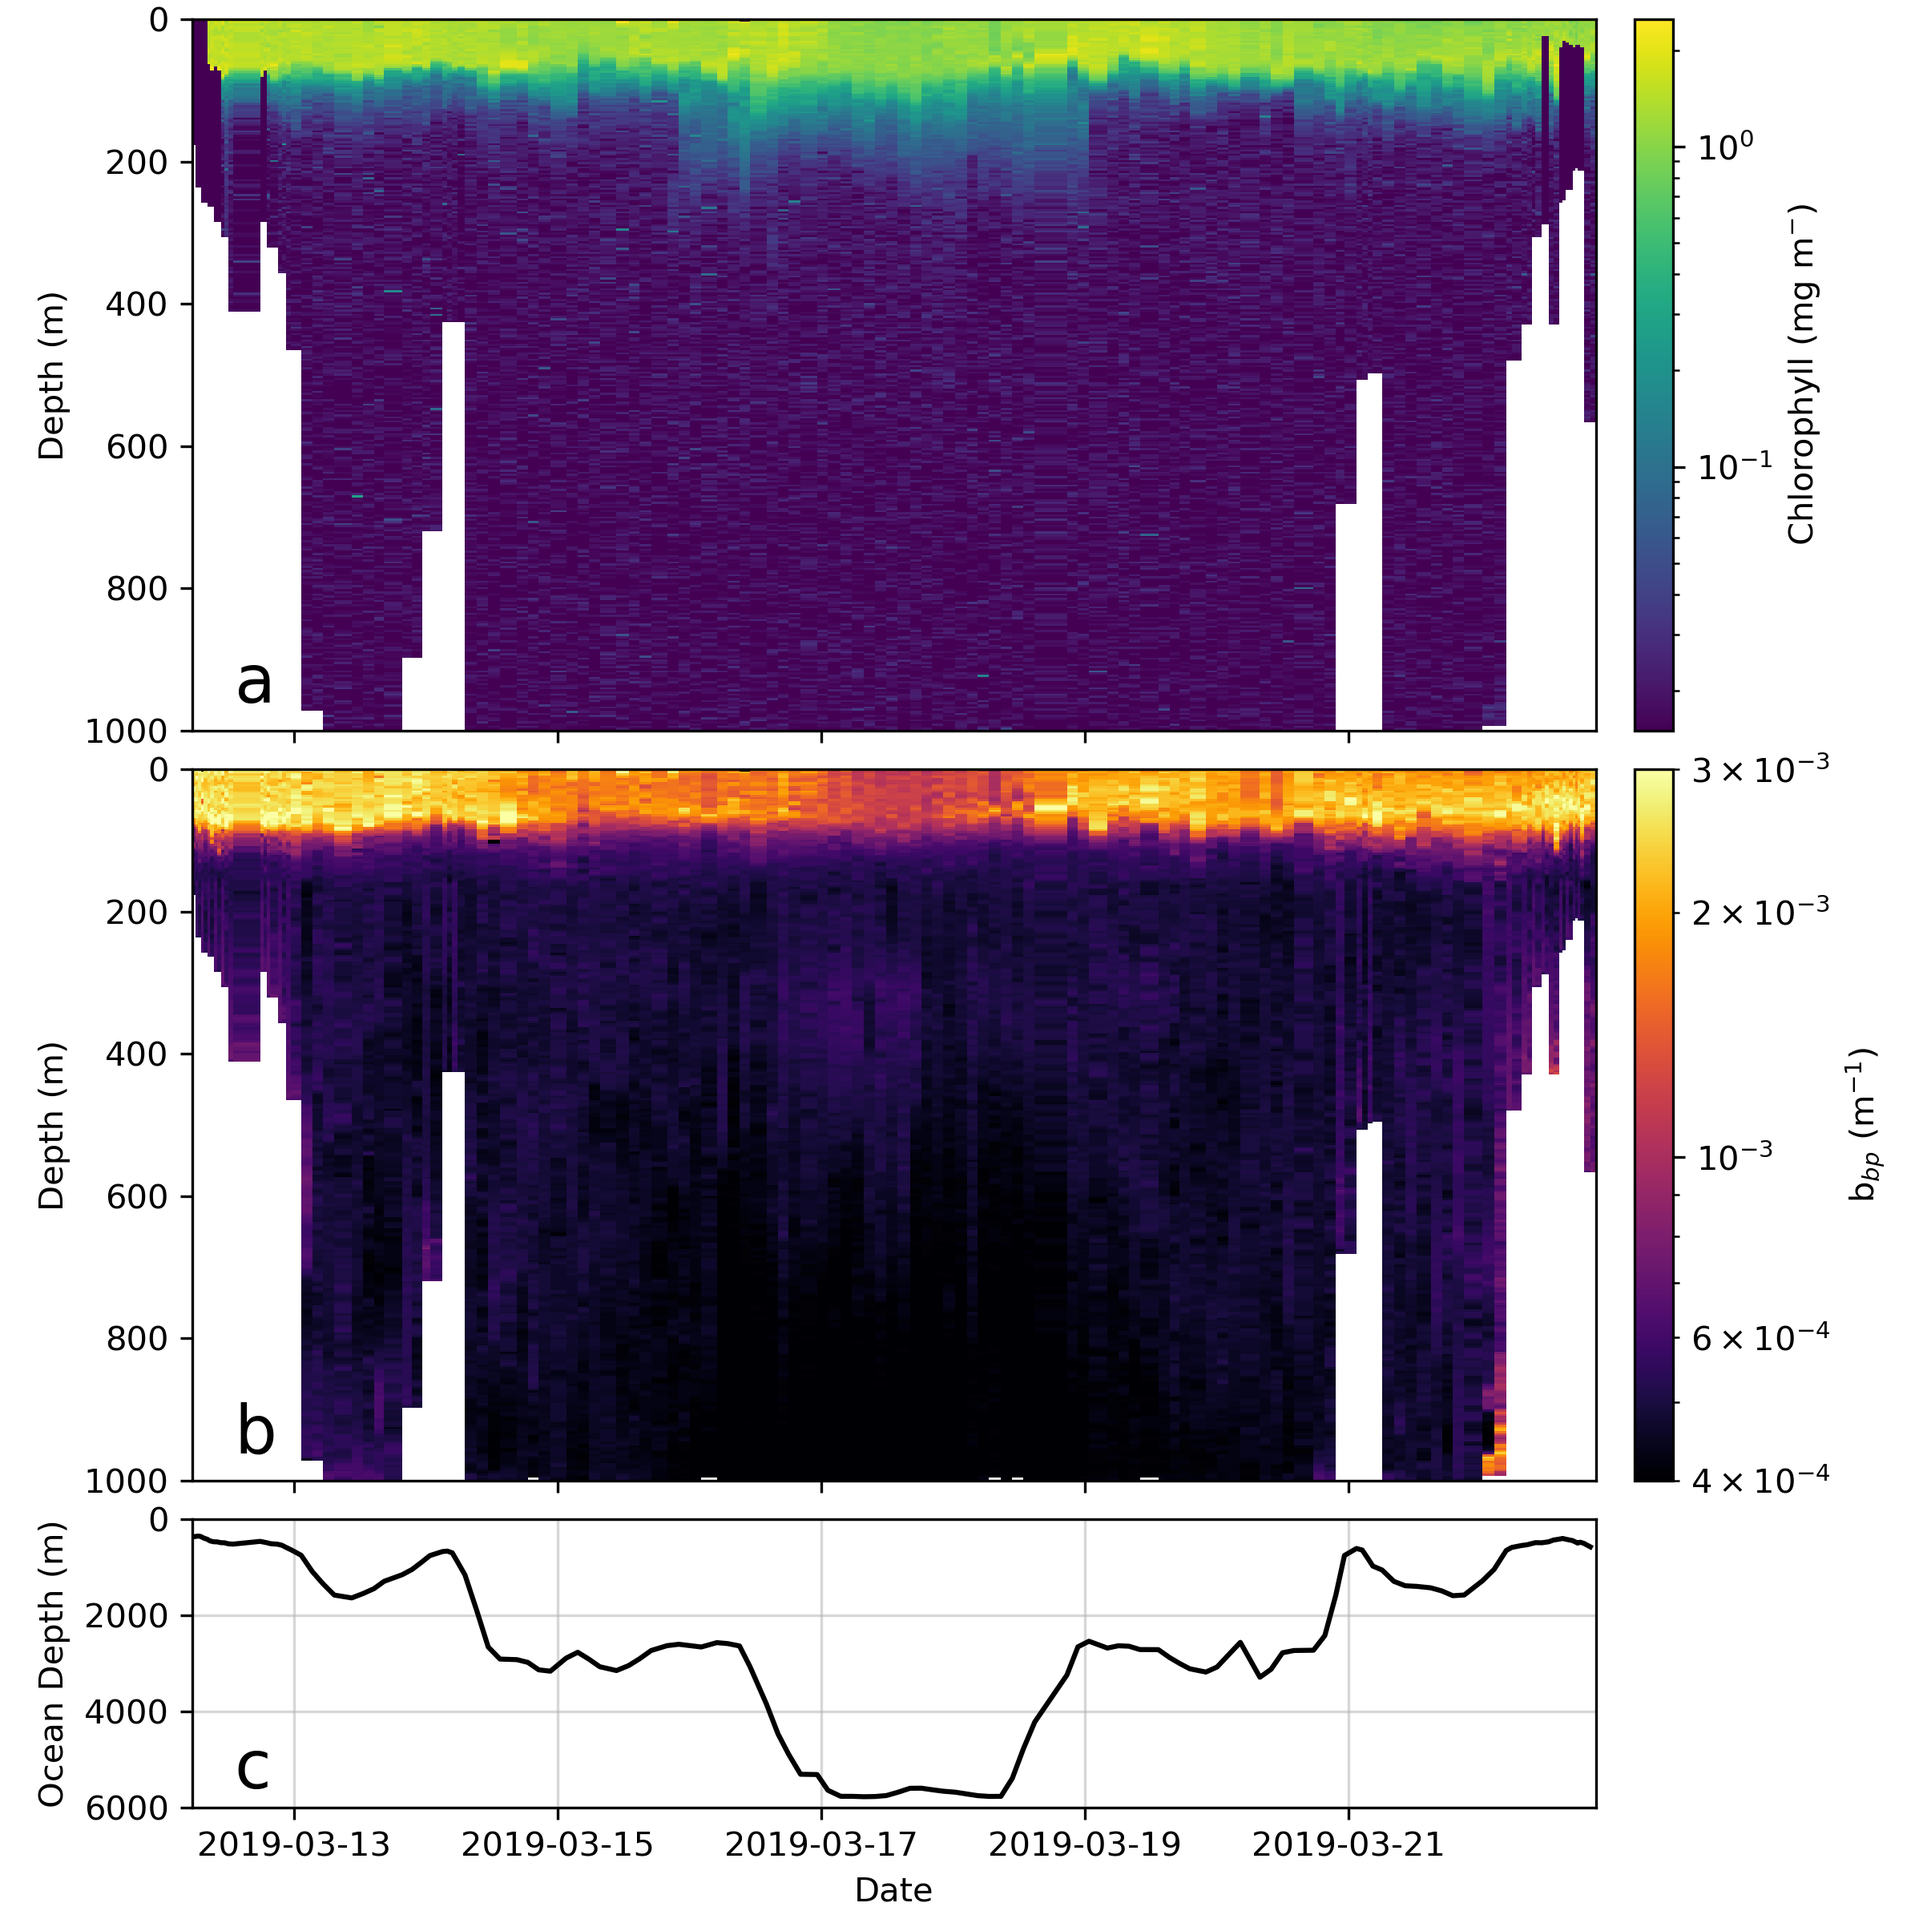
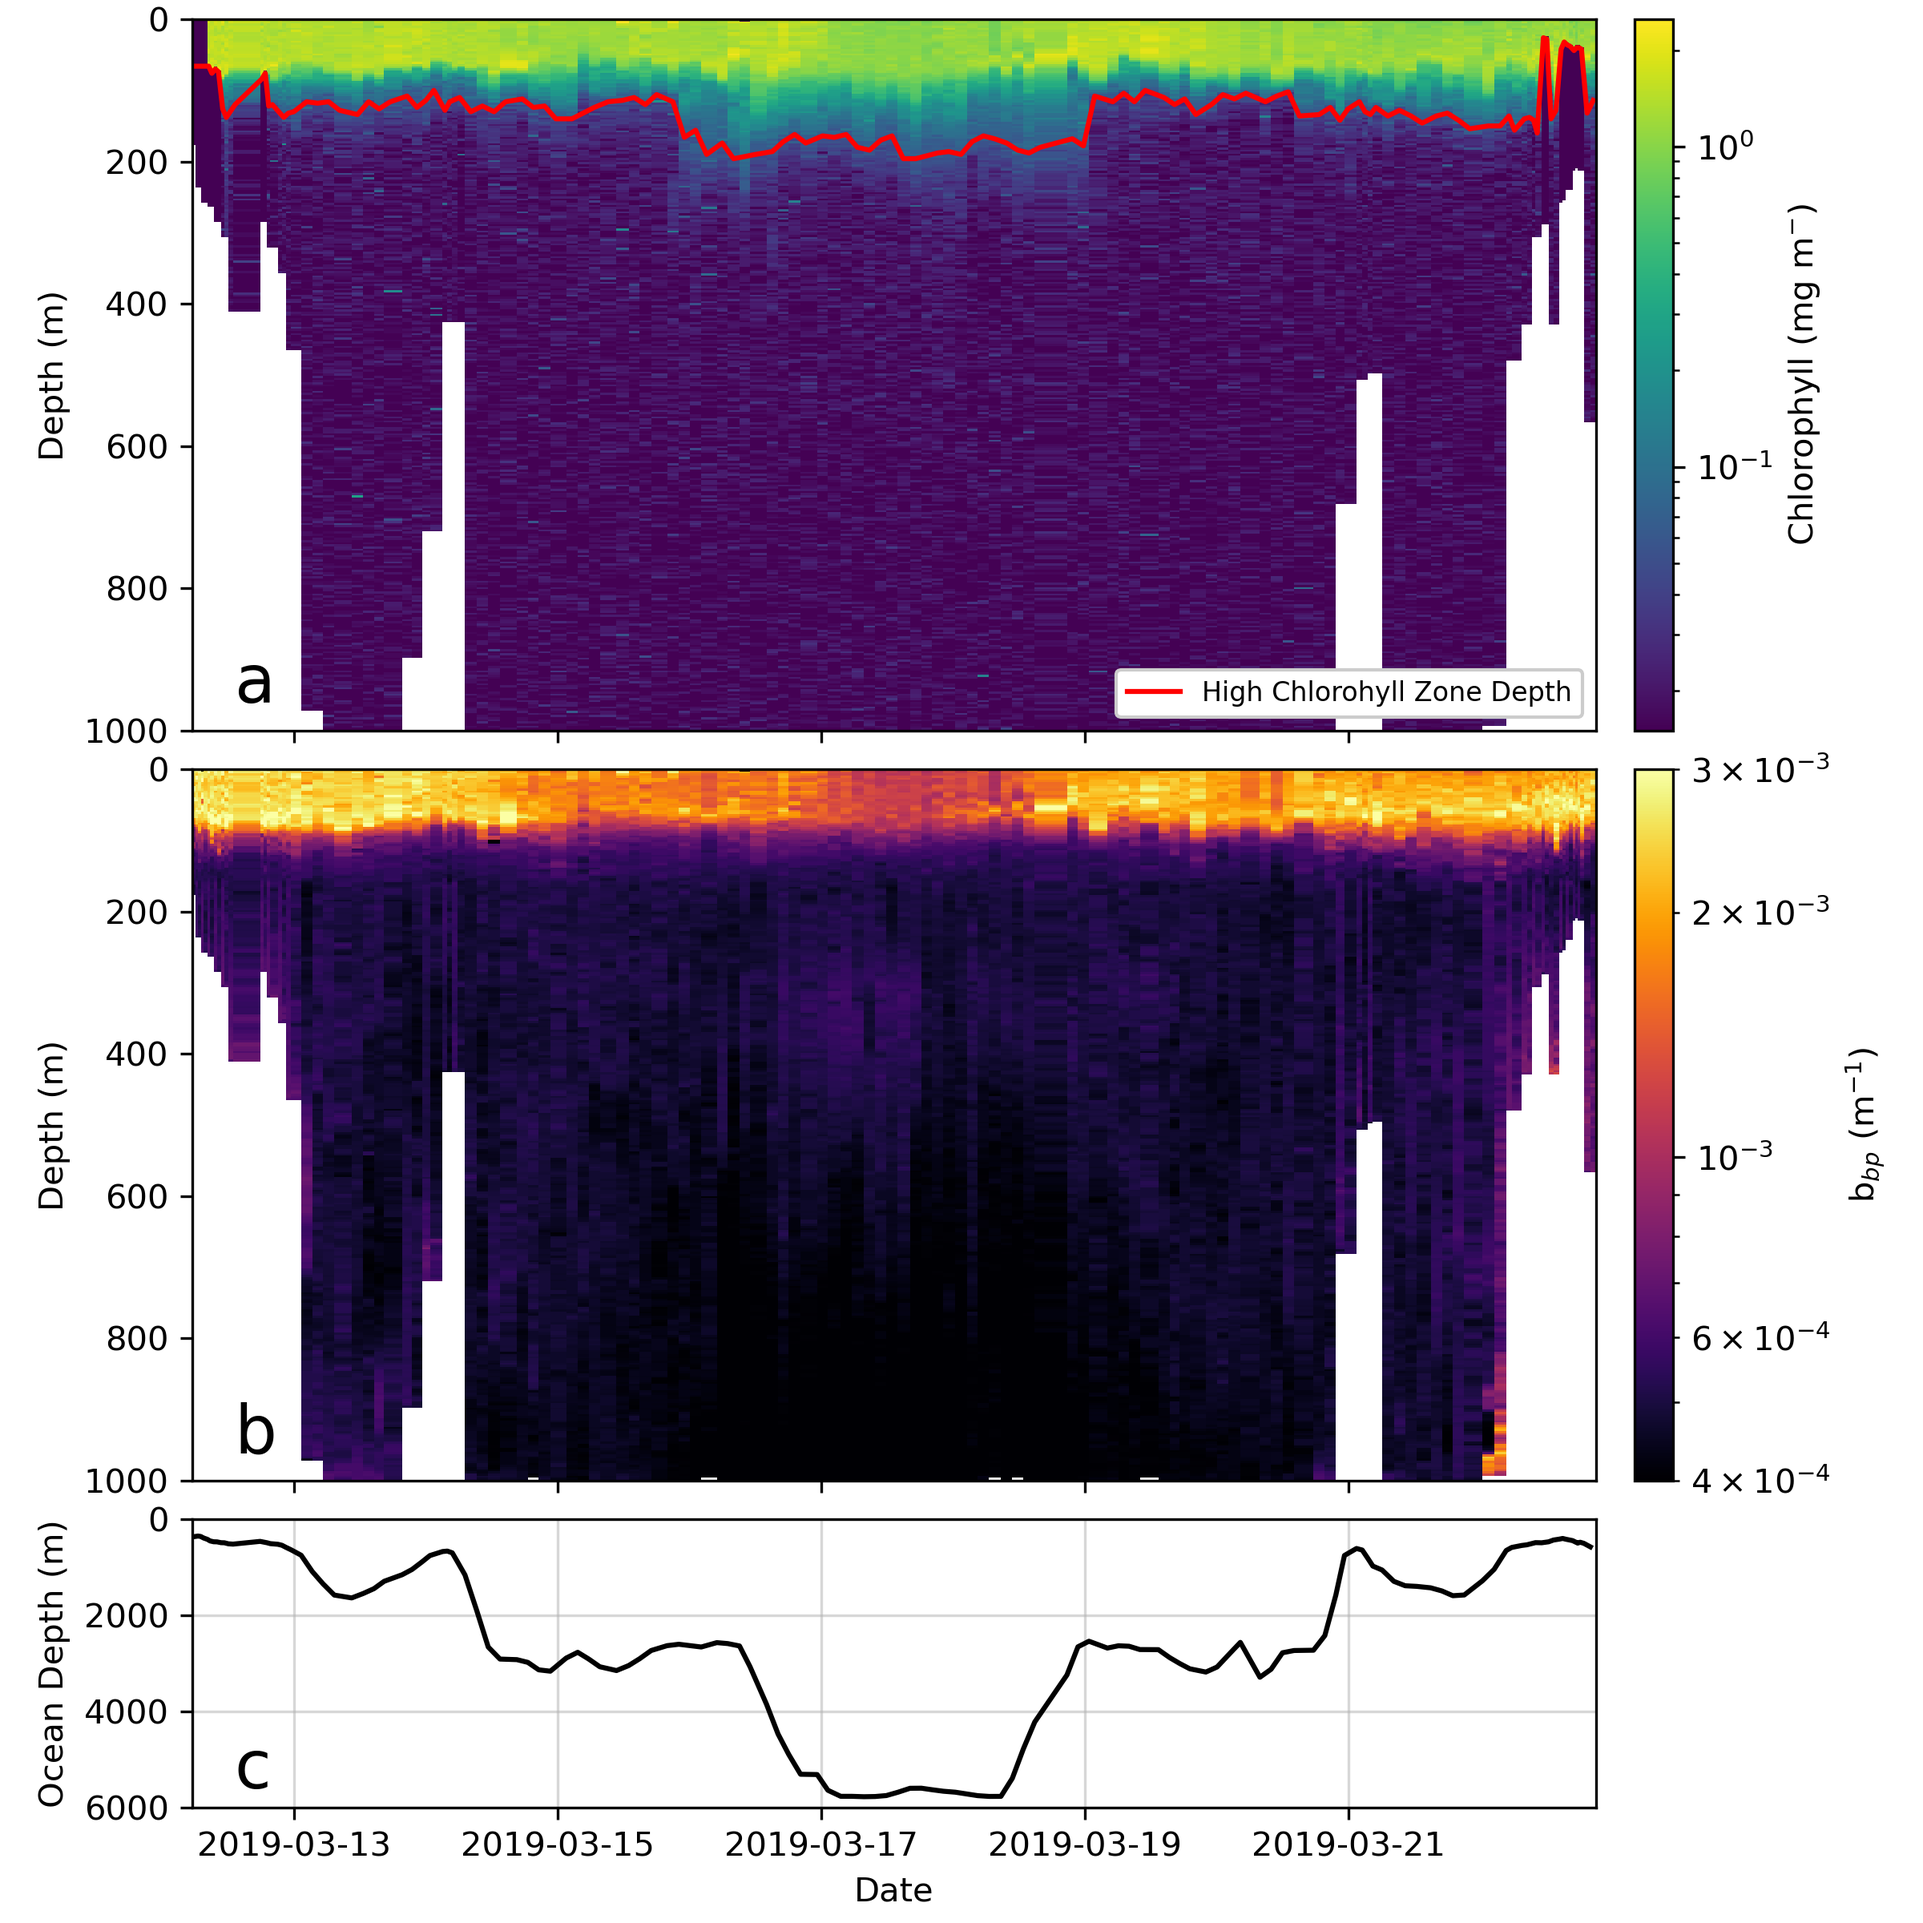
tweaks after chat with kate

diff --git a/Louis/code/FigureK.py b/Louis/code/FigureK.py
@@ -22,7 +22,7 @@ def map_plot(profiles:list[Profile], colour_parameter:str, ax, variable_limit=No
     
     if basemap != None:
         longitudes, latitudes = basemap(longitudes, latitudes)
-    pcm = ax.scatter(longitudes, latitudes, c=colors, s=15, cmap="turbo", norm=mpl.colors.Normalize(vmin=100, vmax=260))
+    pcm = ax.scatter(longitudes, latitudes, c=colors, s=15, cmap="viridis", norm=mpl.colors.Normalize(vmin=100, vmax=200))
     return pcm
     
 
@@ -30,11 +30,17 @@ def map_plot(profiles:list[Profile], colour_parameter:str, ax, variable_limit=No
 
 
 #fig, ax = plt.subplots(2, 1, figsize=(6,6), height_ratios=[1, 0.05])
-fig = plt.figure(figsize=(8,8))
-main_ax = fig.add_axes([0.1, 0.2, 0.7, 0.7])  # [left, bottom, width, height]
-bottom_ax = fig.add_axes([0.2, 0.1, 0.5, 0.02])  # [left, bottom, width, height]
-side_ax = fig.add_axes([0.82, 0.3, 0.02, 0.5])  # [left, bottom, width, height]
+fig = plt.figure(figsize=(14,8))
+main_ax = fig.add_axes([0.05, 0.2, 0.4, 0.7])  # [left, bottom, width, height]
+bottom_ax = fig.add_axes([0.125, 0.1, 0.25, 0.02])  # [left, bottom, width, height]
+side_ax = fig.add_axes([0.92, 0.3, 0.01, 0.5])  # [left, bottom, width, height]
 axes = [main_ax, bottom_ax, side_ax]
+
+# Add second main_ax and bottom_ax
+second_main_ax = fig.add_axes([0.5, 0.2, 0.4, 0.7])  # [left, bottom, width, height]
+second_bottom_ax = fig.add_axes([0.575, 0.1, 0.25, 0.02])  # [left, bottom, width, height]
+axes.append(second_main_ax)
+axes.append(second_bottom_ax)
 
 # Load data
 dataset = xr.open_dataset('Louis/data/gebco_2024_n-55.0_s-65.0_w-40.0_e-32.0.nc', engine="netcdf4")
@@ -52,10 +58,34 @@ colors = original_cmap(np.arange(original_cmap.N))
 modified_cmap = ListedColormap(colors, "modified_cmap")
 bmp = m.contourf(x, y, Z, cmap=modified_cmap)
 
+###
+
+# Add second map
+
+m2 = Basemap(llcrnrlon=-40,llcrnrlat=-62.0,urcrnrlon=-34,urcrnrlat=-59.0,
+            resolution='i',projection='merc',lon_0=-15.0,lat_0=55.0, ax=axes[3])
+
+
+original_cmap = mpl.colormaps["gist_gray"]
+colors = original_cmap(np.arange(original_cmap.N))
+#colors[:, -1] = 0.8  # Set alpha
+modified_cmap = ListedColormap(colors, "modified_cmap")
+bmp = m2.contourf(x, y, Z, cmap=modified_cmap)
+
+###
+
+
+
+
 
 m.fillcontinents(color='grey')
 m.drawparallels(np.arange(-65,-50,1), labels=[1,0,0,0])
 m.drawmeridians(np.arange(-40, -30, 1), labels=[0,0,0,1])
+
+
+m2.fillcontinents(color='grey')
+m2.drawparallels(np.arange(-65,-50,1), labels=[1,0,0,0])
+m2.drawmeridians(np.arange(-40, -30, 1), labels=[0,0,0,1])
 
 
 
@@ -64,7 +94,7 @@ axes[0].set_xlabel("Longitude", labelpad=15)
 axes[0].set_ylabel("Latitude")
 
 plt.colorbar(pcm, cax=axes[1], orientation="horizontal")
-axes[1].set_xlabel(r"Active Zone Depth (m)")
+axes[1].set_xlabel(r"High Chlorophyll Zone Depth (m)")
 
 
 
@@ -74,6 +104,36 @@ plt.colorbar(bmp, cax=axes[2], orientation="vertical")
 axes[2].set_ylabel(r"Depth (m)")
 xticks = axes[2].get_xticks()
 axes[2].set_xticklabels([int(abs(tick)) for tick in xticks])
+
+
+def map_plot2(profiles:list[Profile], colour_parameter:str, ax, variable_limit=None, basemap=None) -> None:
+
+        
+    longitudes = np.asarray([p.start_location[0] for p in profiles if p.active_zone>100])
+    latitudes = np.asarray([p.start_location[1] for p in profiles if p.active_zone>100])
+    colors = np.asarray([(p.active_zone - p.photic_depth) for p in profiles if p.active_zone>100])
+    print(colors)
+
+    
+    if basemap != None:
+        longitudes, latitudes = basemap(longitudes, latitudes)
+    pcm = ax.scatter(longitudes, latitudes, c=colors, s=15, cmap="magma", norm=mpl.colors.Normalize(vmin=30, vmax=130))
+    return pcm
+    
+
+pcm = map_plot2(profiles, "bbp_minimum_despiked", axes[3], variable_limit=None, basemap=m)
+axes[3].set_xlabel("Longitude", labelpad=15)
+axes[3].set_ylabel("Latitude")
+
+plt.colorbar(pcm, cax=axes[4], orientation="horizontal")
+axes[4].set_xlabel(r"Extent of High Chlorophyll Zone beyond Photic Zone (m)")
+
+
+
+
+
+
+
 
 
 

diff --git a/Louis/code/FigureI.py b/Louis/code/FigureI.py
@@ -34,6 +34,7 @@ profiles = profiles[489:631]
 print(profiles[0].index, profiles[-1].index)
 
 
+az_depths = [-p.active_zone for p in profiles]
 
 # AXIS 0
 
@@ -58,6 +59,7 @@ cbar_ax2.set_ylabel(r"b$_{bp}$ (m$^{-1}$)")
 
 
 # AXIS 2
+
 bath = [p.bathymetry for p in profiles]
 time = [p.start_time for p in profiles]
 valid_nexts = np.asarray([p.valid_next for p in profiles])
@@ -66,12 +68,21 @@ masks.pop(-1)
 for m in masks:
     times = []
     baths = []
+    az = []
     while len(times) < len(m):
         times.append(time.pop(0))
         baths.append(bath.pop(0))
     times.append(time.pop(0))
     baths.append(bath.pop(0))
     ax2.plot(times, baths, color="black")
+
+
+az_depths = pd.Series([-p.active_zone for p in profiles]).interpolate(method="linear", limit_direction="both")
+ts = [p.start_time + 0.5*(p.end_time-p.start_time) for p in profiles]
+ax.plot(ts, az_depths, color="red", label="High Chlorohyll Zone Depth")
+ax.legend(loc="lower right", fontsize=8, framealpha=1)
+
+
 
 
 ax.set_ylabel("Depth (m)")

diff --git a/Louis/code/FigureM.py b/Louis/code/FigureM.py
@@ -41,7 +41,7 @@ ax.plot(st, pz, color="#000000", label="Photic depth")
 
 
 
-ax.set_ylim(-600, 0)
+ax.set_ylim(-400, 0)
 ax.set_ylabel("Depth (m)")
 ax.set_yticklabels([f"{int(abs(label))}" for label in ax.get_yticks()])
 xticks = ax.get_xticks()
